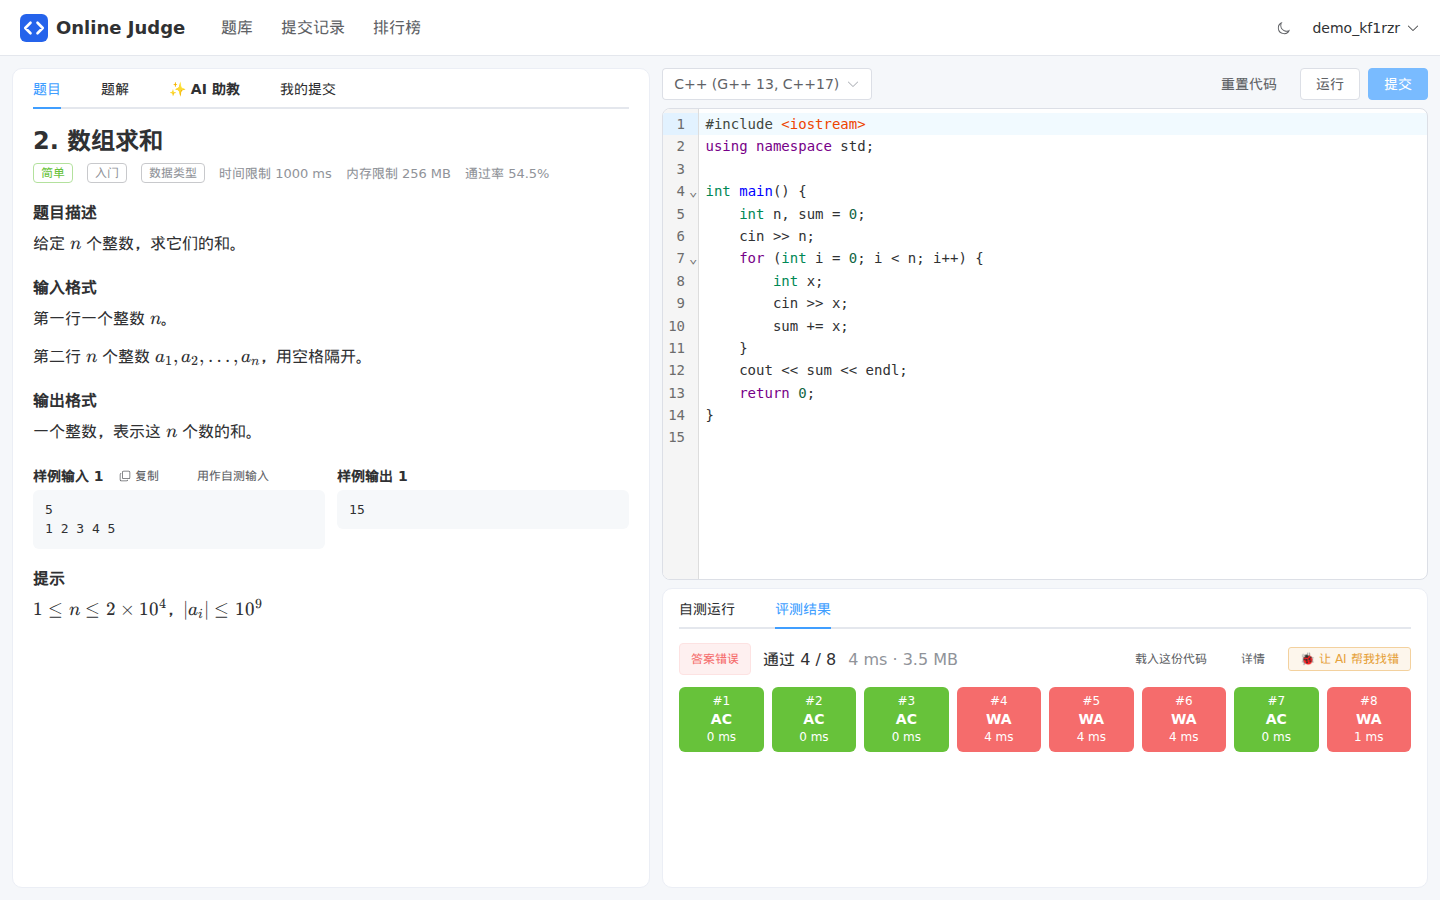
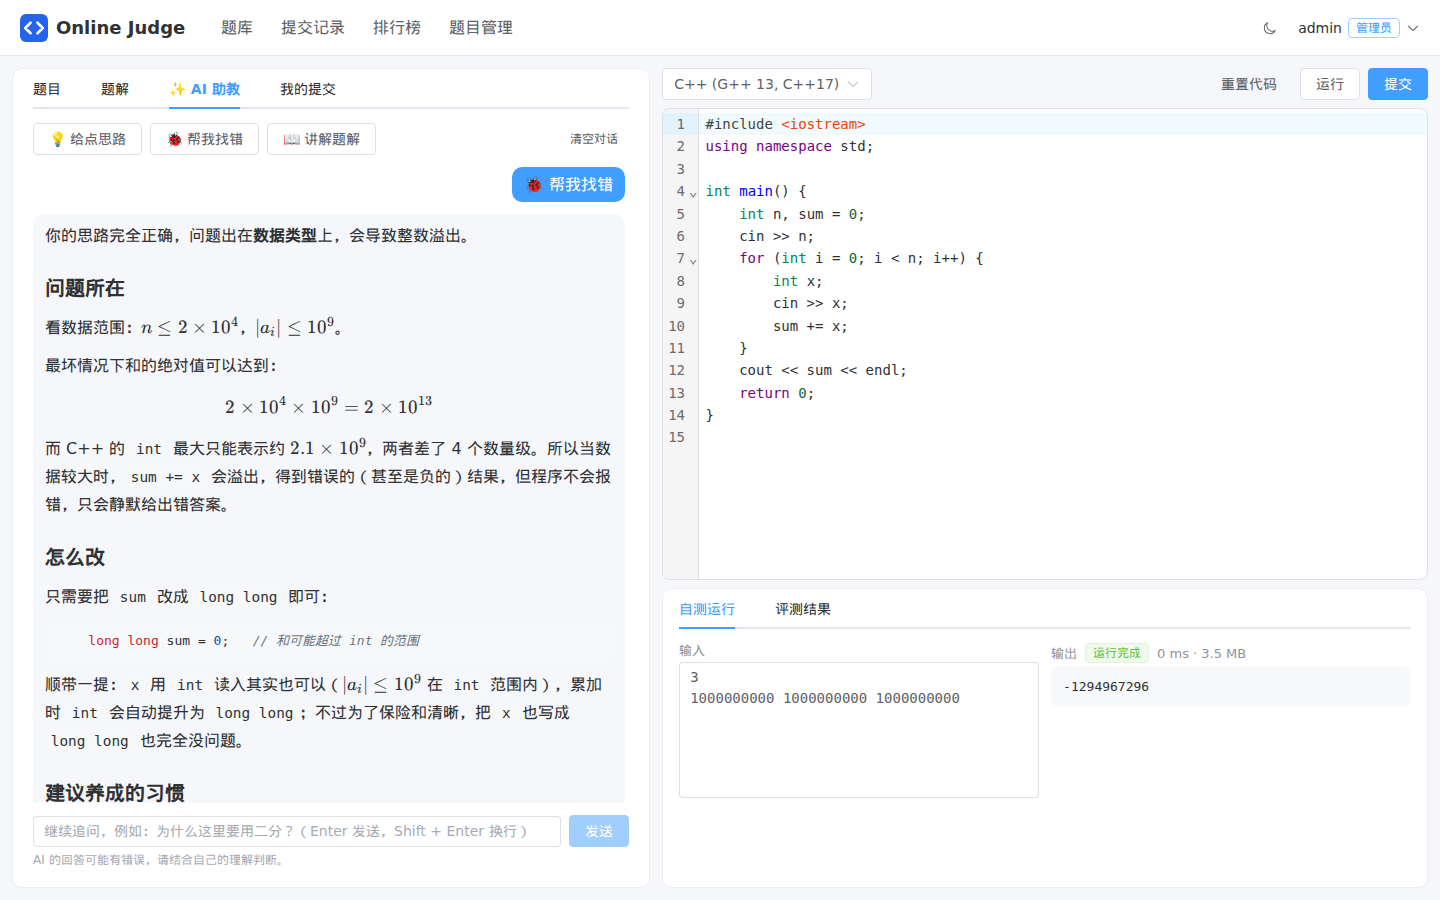
README 主截图换成真实的 AI 助教回答

diff --git a/README.md b/README.md
@@ -2,7 +2,9 @@
 
 一个带 **AI 助教**的在线评测系统：在网页上写代码、自动评测；做不出来的时候，可以让 AI（默认接入 DeepSeek）结合你的代码和评测结果，一步步教你写出来。
 
-![做题页面](docs/images/workspace.png)
+![做题页面和 AI 助教](docs/images/workspace.png)
+
+<sub>上图：自测运行发现三个 $10^9$ 相加输出了负数，点「帮我找错」后 AI 指出是 `int` 溢出（回答由 DeepSeek 实时生成）。</sub>
 
 ## 功能
 
